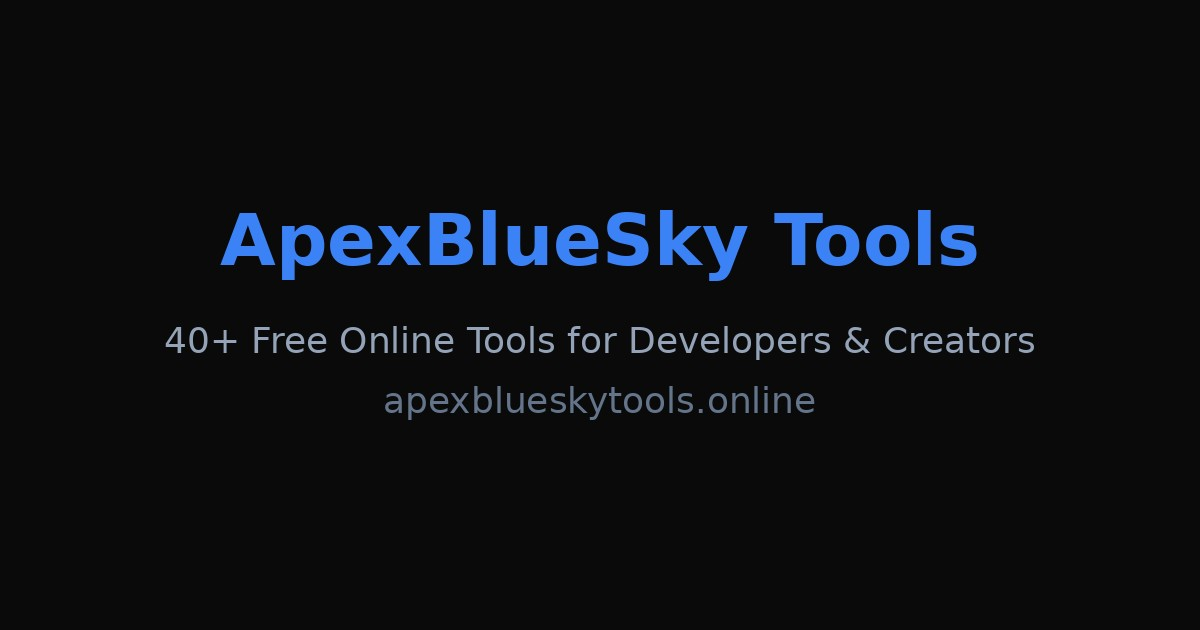
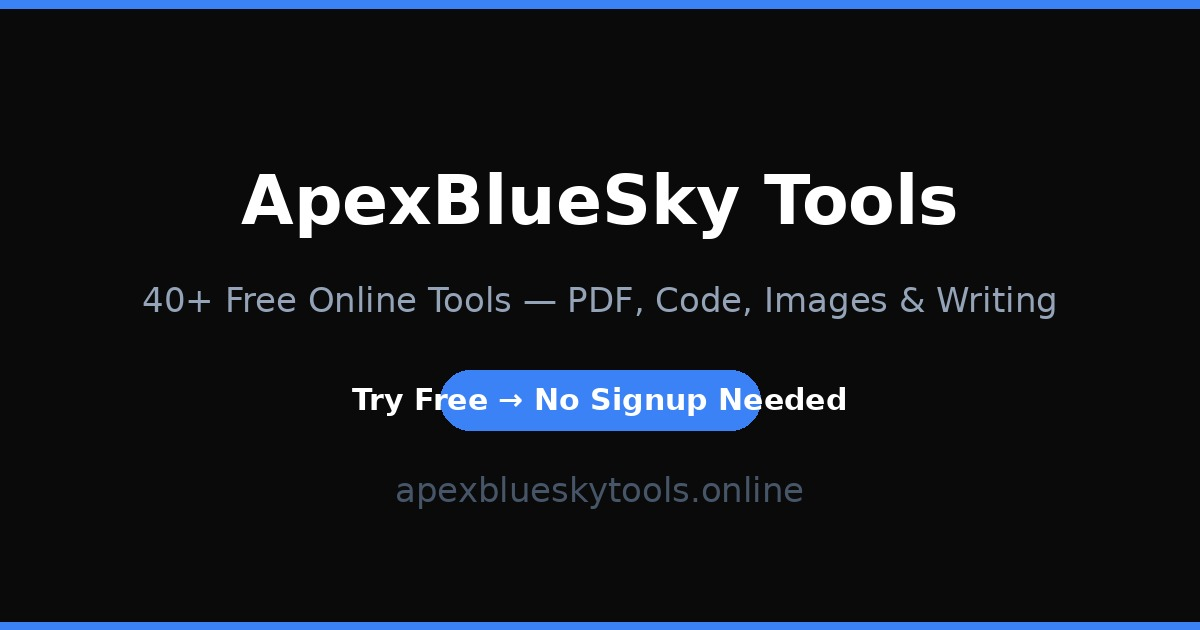
SEO: fix OG title/description length and add CTA to og-image

diff --git a/src/app/layout.tsx b/src/app/layout.tsx
@@ -9,11 +9,11 @@ export const metadata: Metadata = {
   alternates: {
     canonical: SITE_URL,
   },
-  title: "ApexBlueSky Tools - Premium Utility Hub",
-  description: "High-performance, privacy-focused tool library for developers, students, and creators. 43+ tools built for speed.",
+  title: "Free Online Tools for Developers & Creators | ApexBlueSky",
+  description: "40+ free online tools for PDF, code, images & writing. No signup needed. Works in your browser. Built for developers, students & creators worldwide.",
   openGraph: {
-    title: "ApexBlueSky Tools",
-    description: "43+ High-performance web utilities for developers, students, and creators.",
+    title: "Free Online Tools for Developers & Creators | ApexBlueSky",
+    description: "40+ free online tools for PDF, code, images & writing. No signup needed. Works in your browser. Built for developers, students & creators worldwide.",
     url: SITE_URL,
     siteName: 'ApexBlueSky Tools',
     images: [
@@ -21,7 +21,7 @@ export const metadata: Metadata = {
         url: `${SITE_URL}/og-image.jpg`,
         width: 1200,
         height: 630,
-        alt: 'ApexBlueSky Tools Platform',
+        alt: 'ApexBlueSky Tools – 40+ Free Online Tools. Try Free →',
       },
     ],
     locale: 'en_US',
@@ -29,8 +29,8 @@ export const metadata: Metadata = {
   },
   twitter: {
     card: 'summary_large_image',
-    title: 'ApexBlueSky Tools - Premium Utility Hub',
-    description: '43+ lighting-fast tools for developers, students, and creators.',
+    title: 'Free Online Tools for Developers & Creators | ApexBlueSky',
+    description: '40+ free online tools for PDF, code, images & writing. No signup. Works in your browser. Try free →',
     images: [`${SITE_URL}/og-image.jpg`],
   },
   other: {
